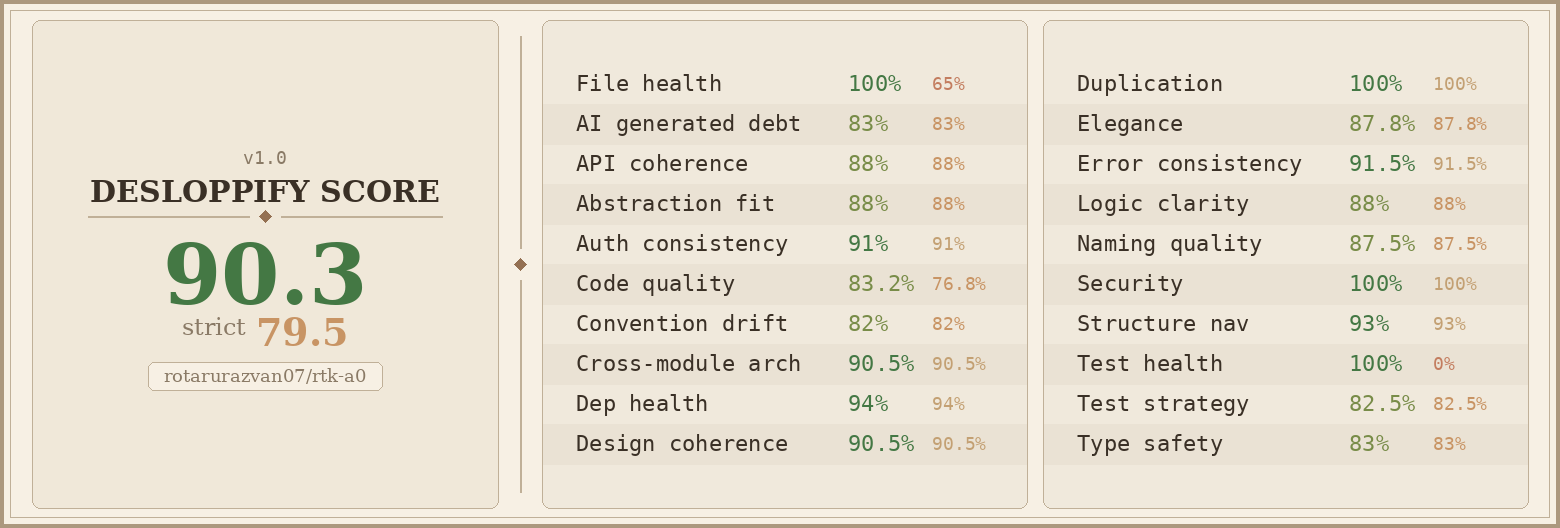
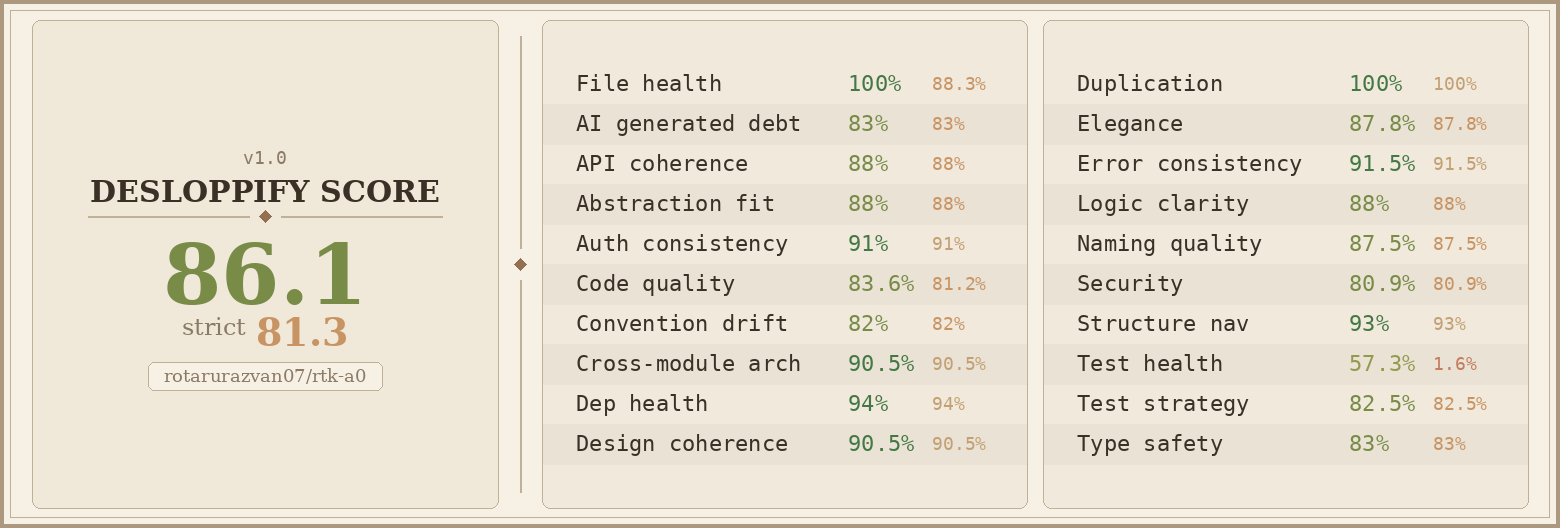
desloppify: update scorecard and code health progress

diff --git a/hooks.py b/hooks.py
@@ -35,7 +35,7 @@ _VERSION_TIMEOUT = 10
 _SETUP_LOCK = threading.RLock()
 
 
-class _Style:
+class _LogShim:
     """Minimal operator-visible logging (stderr; A0 surfaces hook output)."""
 
     @staticmethod
@@ -57,7 +57,7 @@ class _Style:
         self._emit("ERROR", *args)
 
 
-_style = _Style()
+_style = _LogShim()
 
 
 def _desc(exc: BaseException) -> str:
@@ -99,7 +99,7 @@ def _setup_env() -> dict[str, str]:
     return env
 
 
-def _run_setup():
+def _run_setup() -> subprocess.CompletedProcess[str]:
     with _SETUP_LOCK:
         return subprocess.run(
             ["bash", str(_SETUP_SCRIPT)],
@@ -116,7 +116,7 @@ def _run_setup():
         )
 
 
-def _setup_output(result) -> str:
+def _setup_output(result: subprocess.CompletedProcess[str]) -> str:
     """Combine setup output so the operator sees the provisioning verdict."""
     out = (result.stdout or "").strip()
     err = (result.stderr or "").strip()

diff --git a/README.md b/README.md
@@ -21,7 +21,7 @@ git clone https://github.com/rotarurazvan07/rtk-a0.git usr/plugins/rtk_compressi
 
 ## How it works
 
-1. On install or update, `scripts/setup.sh` downloads the RTK release pinned in `rtk_pin.txt` (currently `v1.0.1`, static musl build), verifies its SHA-256 against the release `checksums.txt`, and installs it to `/usr/local/bin/rtk`.
+1. On install or update, `scripts/setup.sh` downloads the RTK release pinned in `rtk_pin.txt` (currently `v1.0.1`, static musl build), verifies its SHA-256 against the release `checksums.txt`, and installs it to `/usr/local/bin/rtk`. Host tools required: `bash`, `curl`, `tar`, `sha256sum`, `awk`, `mktemp`, and `find`.
 2. Before each terminal command runs, the plugin calls `rtk rewrite <command>`.
 3. If RTK returns a rewrite, that runs instead. Otherwise the original command runs.
 
